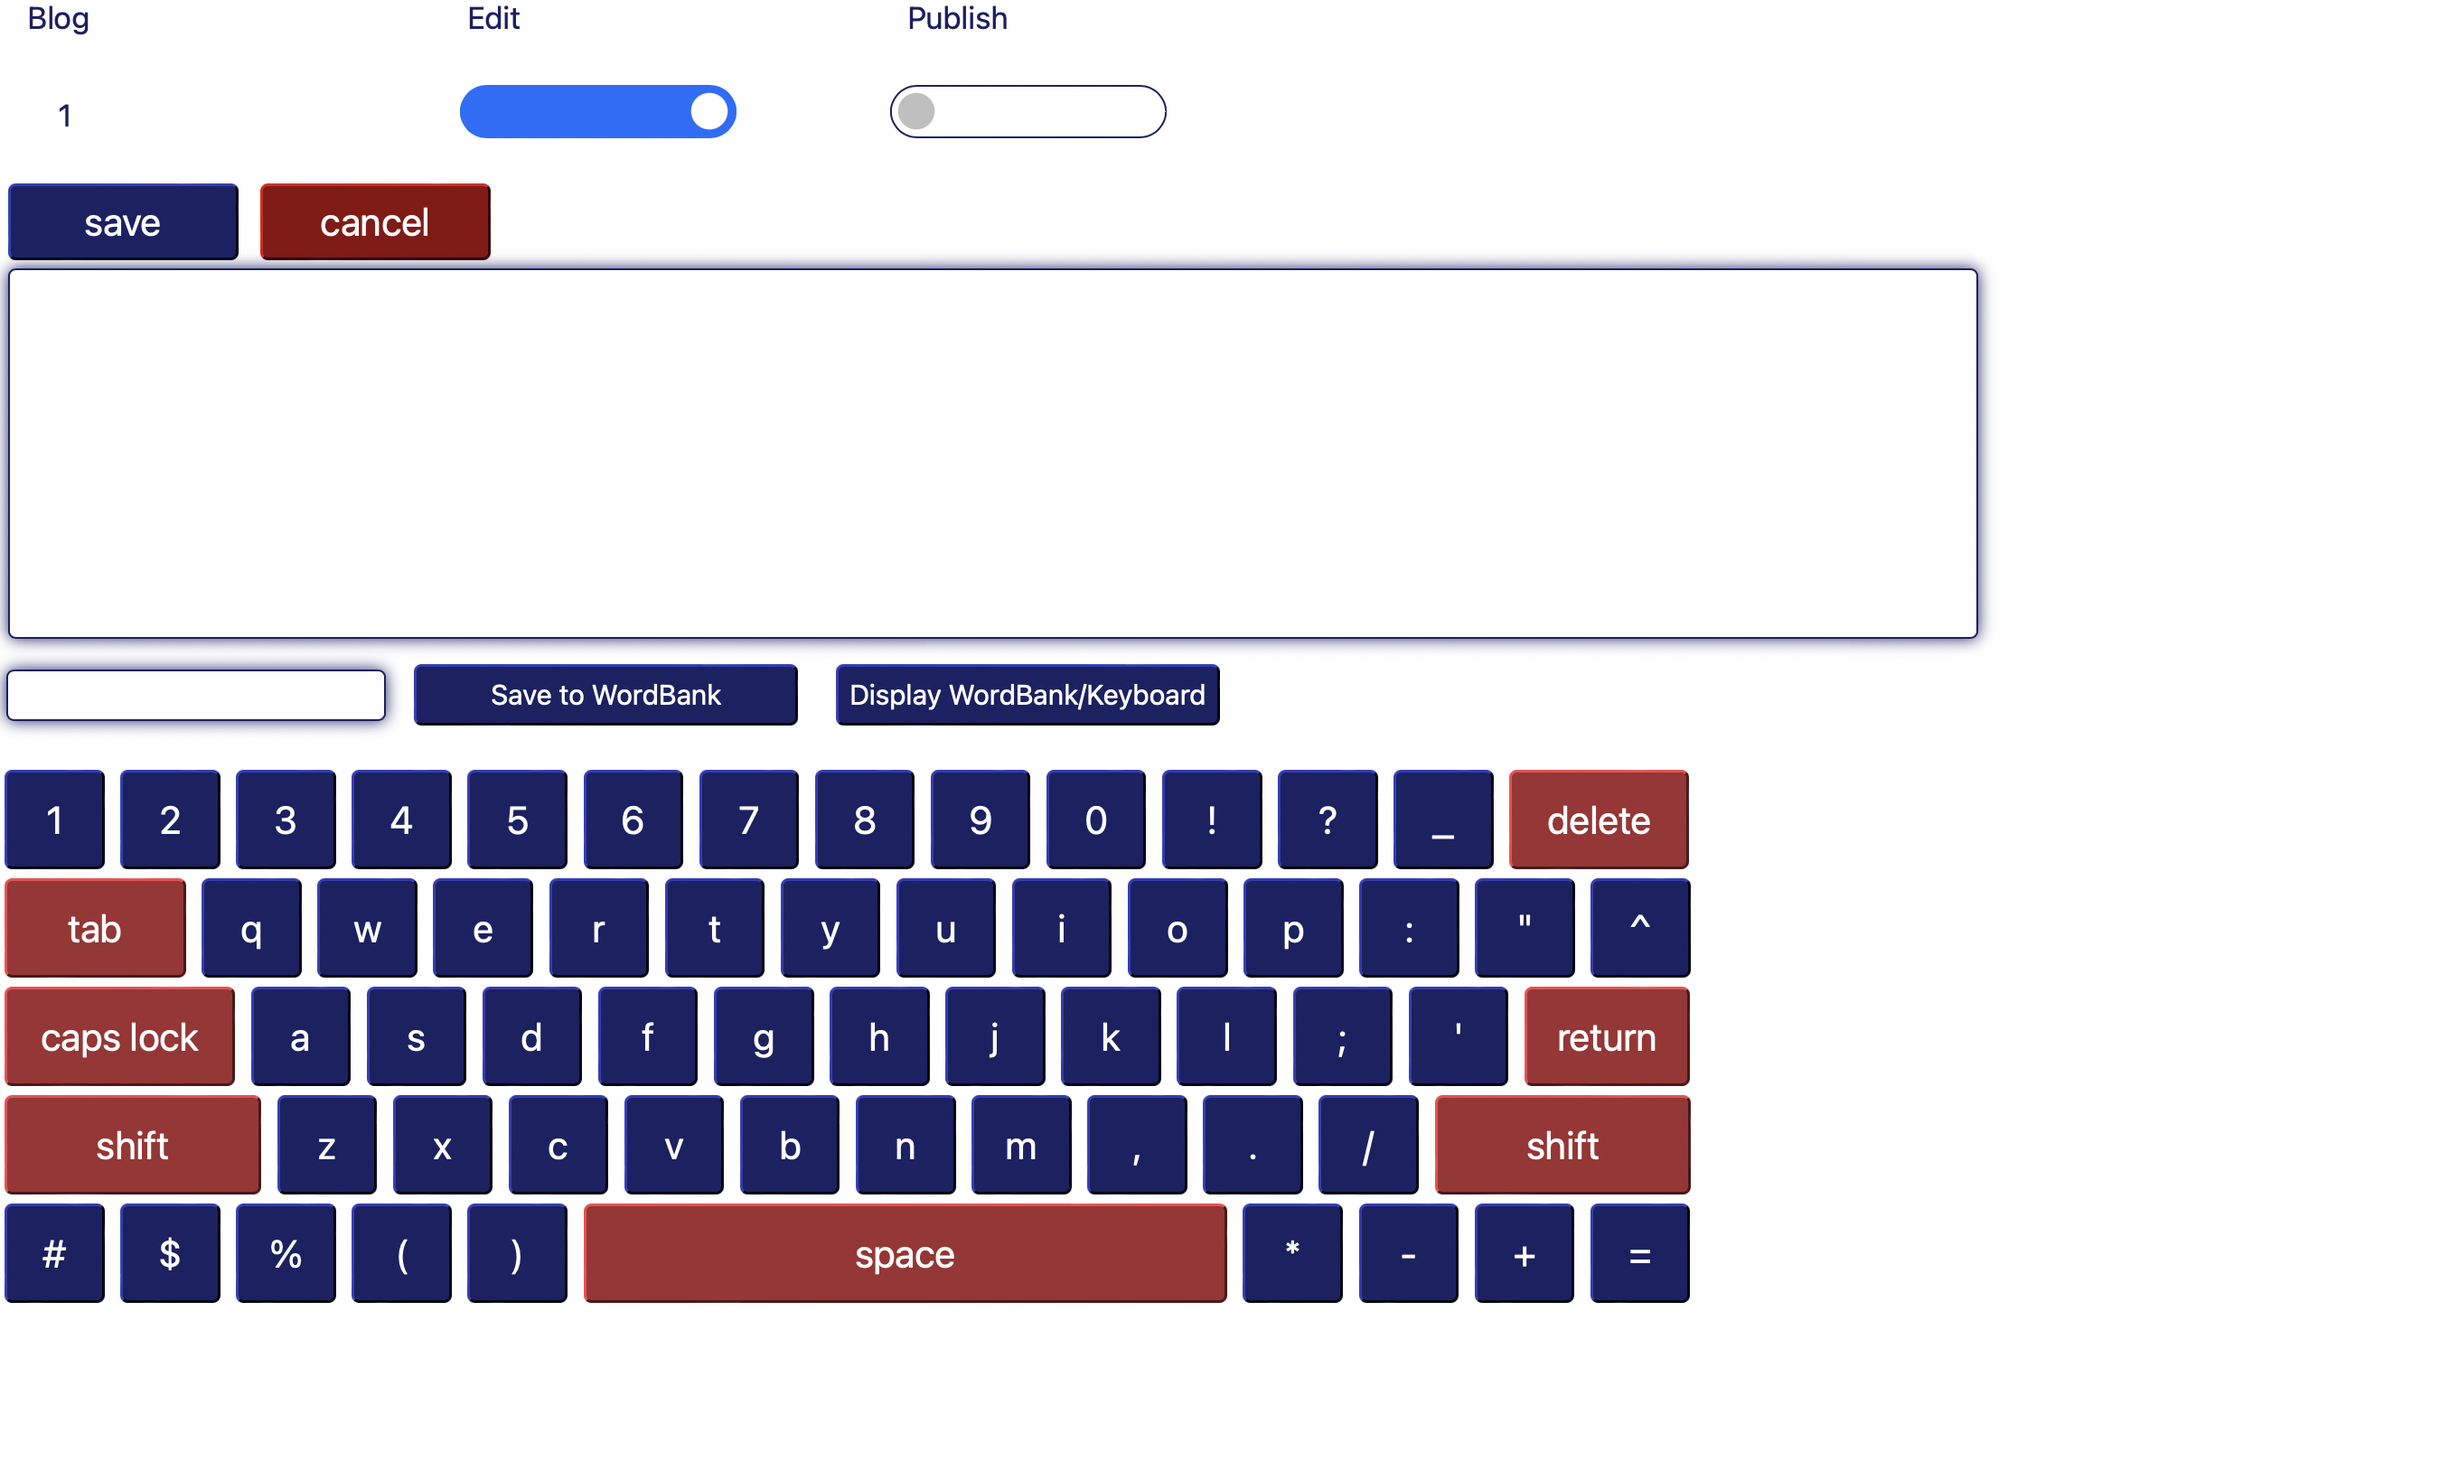
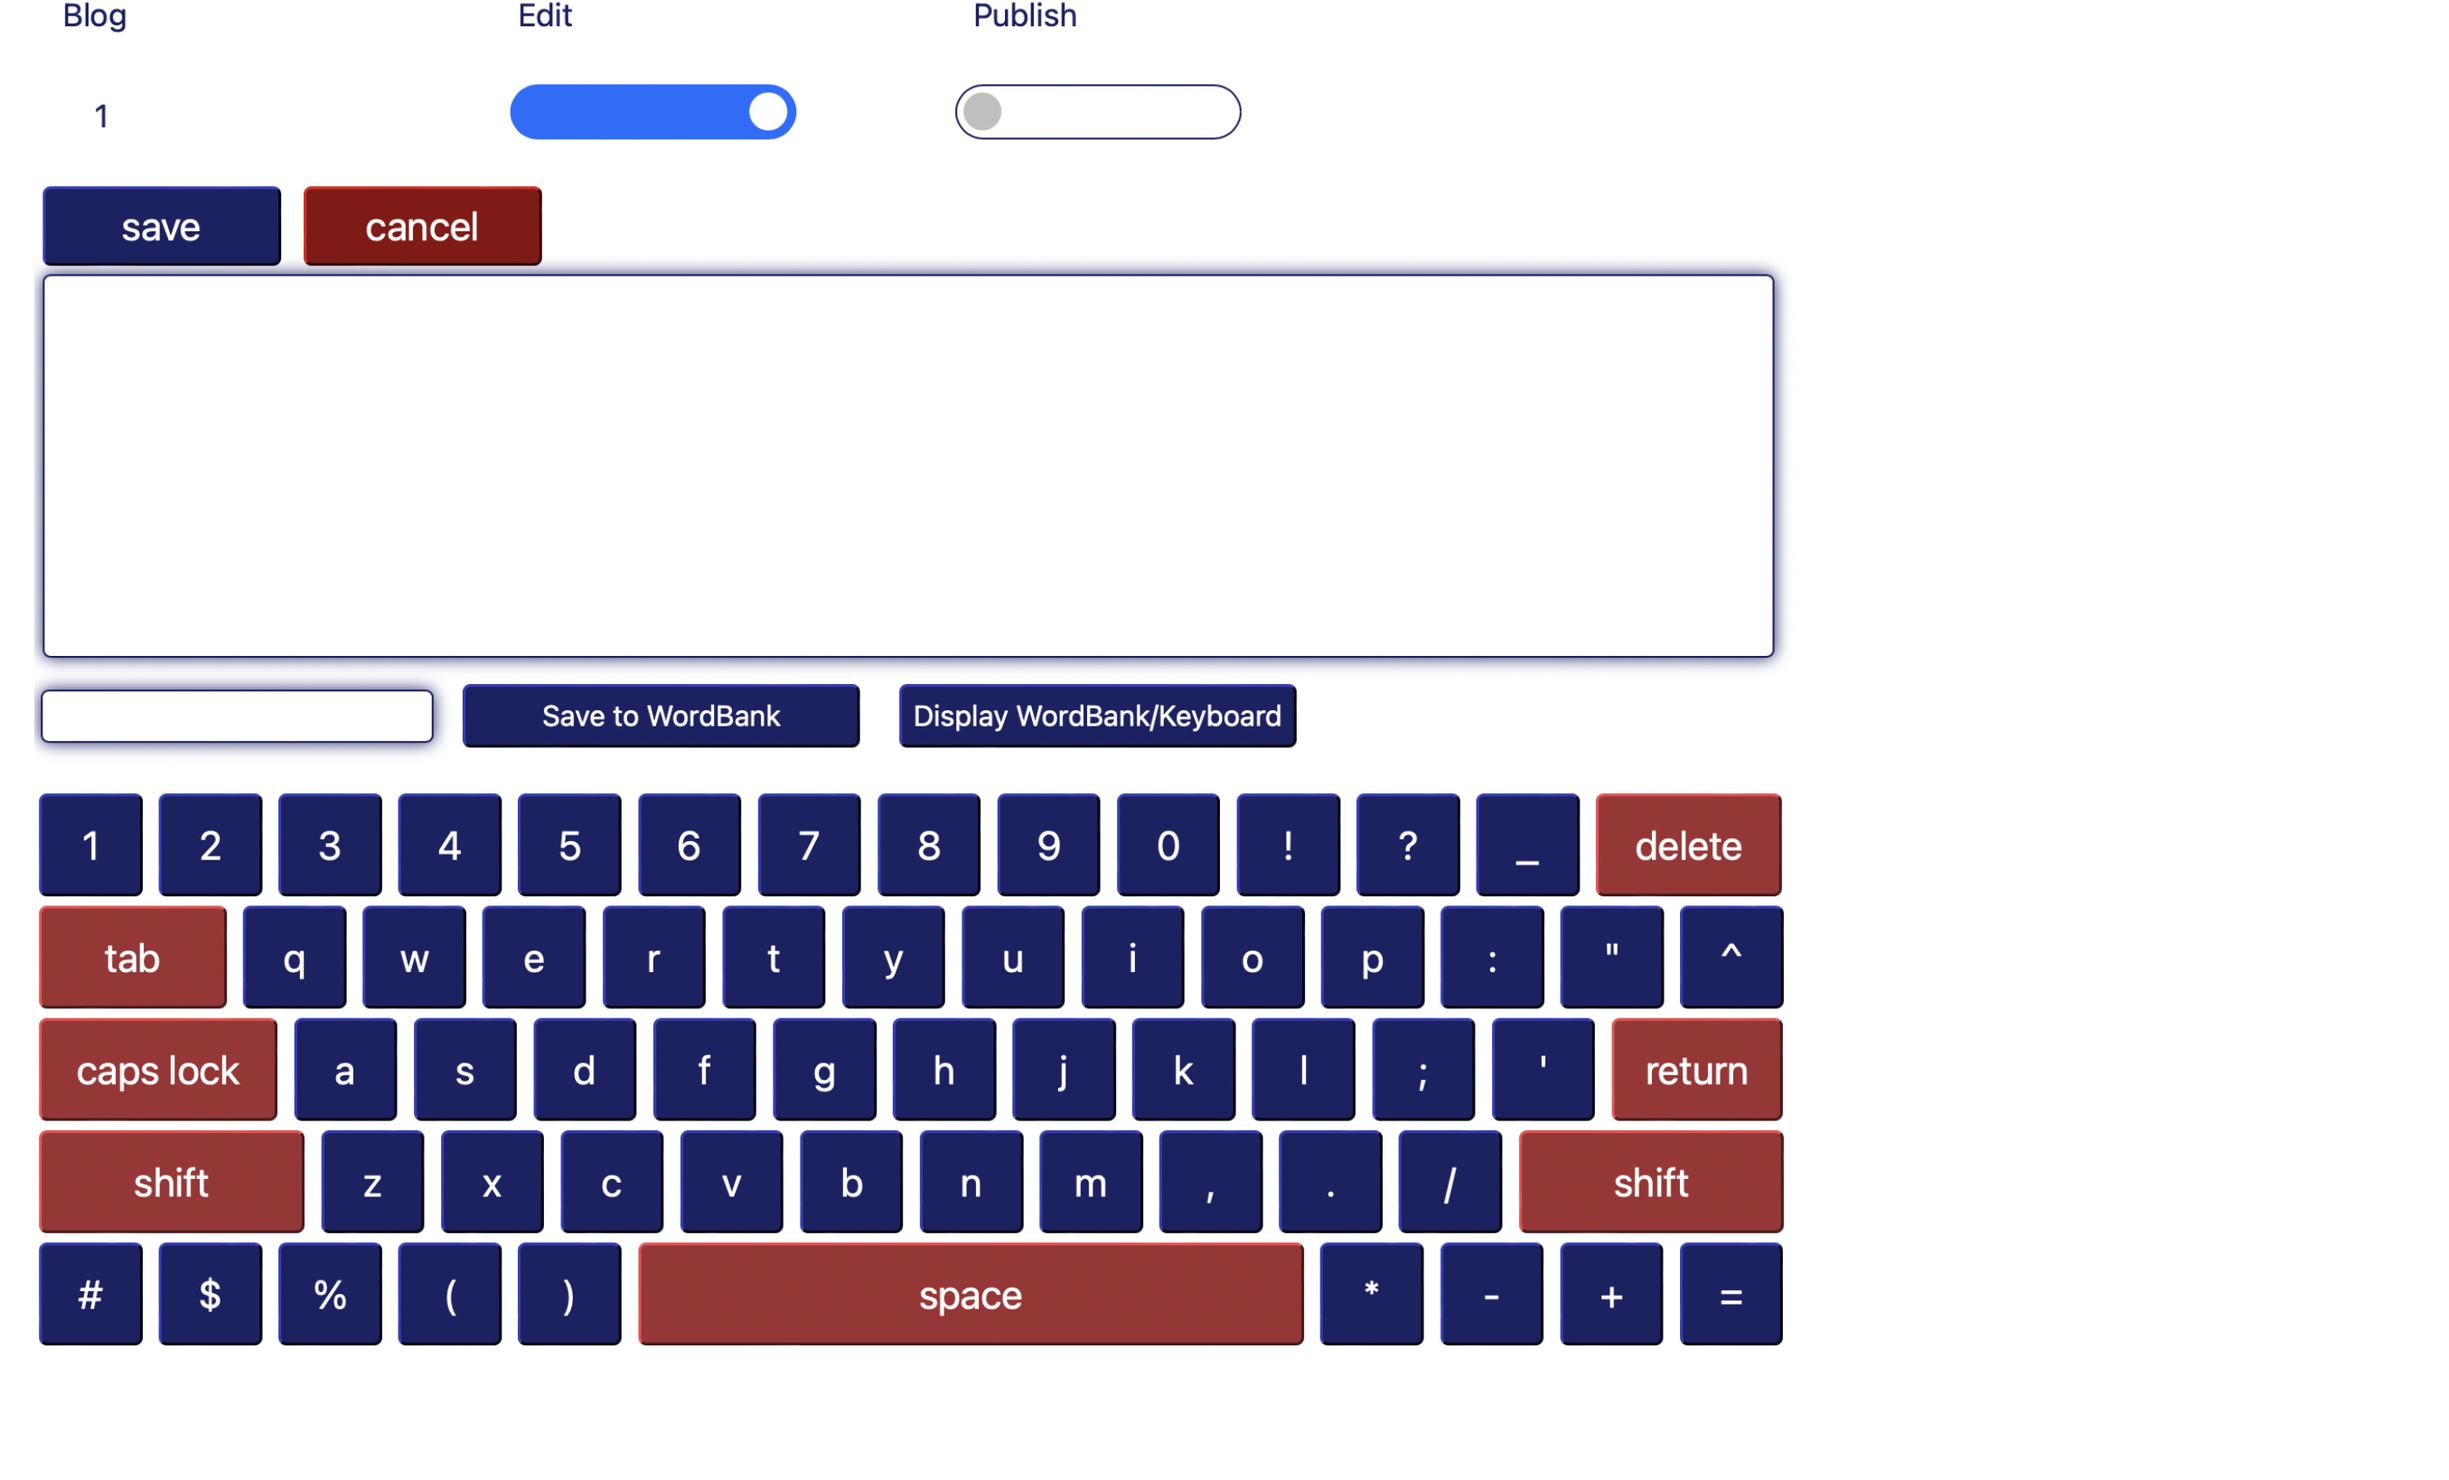
change cols

diff --git a/P1.html b/P1.html
@@ -111,13 +111,13 @@
             <button type="button" class="button cancel" title="cancel" id="cancel3">cancel</button>
         </div>
         <div id="inputArea1" style="display: none;" onmouseenter="activeBox('inputBox1');">
-            <textarea class="inputBox" name="inputBox" id="inputBox1" cols="104" rows="8" autocapitalize="on" ></textarea>
+            <textarea class="inputBox" name="inputBox" id="inputBox1" cols="88" rows="8" autocapitalize="on" ></textarea>
         </div>
         <div id="inputArea2" style="display: none;" onmouseenter="activeBox('inputBox2');">
-            <textarea class="inputBox" name="inputBox" id="inputBox2" cols="104" rows="8" autocapitalize="on" ></textarea>
+            <textarea class="inputBox" name="inputBox" id="inputBox2" cols="88" rows="8" autocapitalize="on" ></textarea>
         </div>
         <div id="inputArea3" style="display: none;" onmouseenter="activeBox('inputBox3');">
-            <textarea class="inputBox" name="inputBox" id="inputBox3" cols="104" rows="8" autocapitalize="on" ></textarea>
+            <textarea class="inputBox" name="inputBox" id="inputBox3" cols="88" rows="8" autocapitalize="on" ></textarea>
         </div>
     </div>
 
